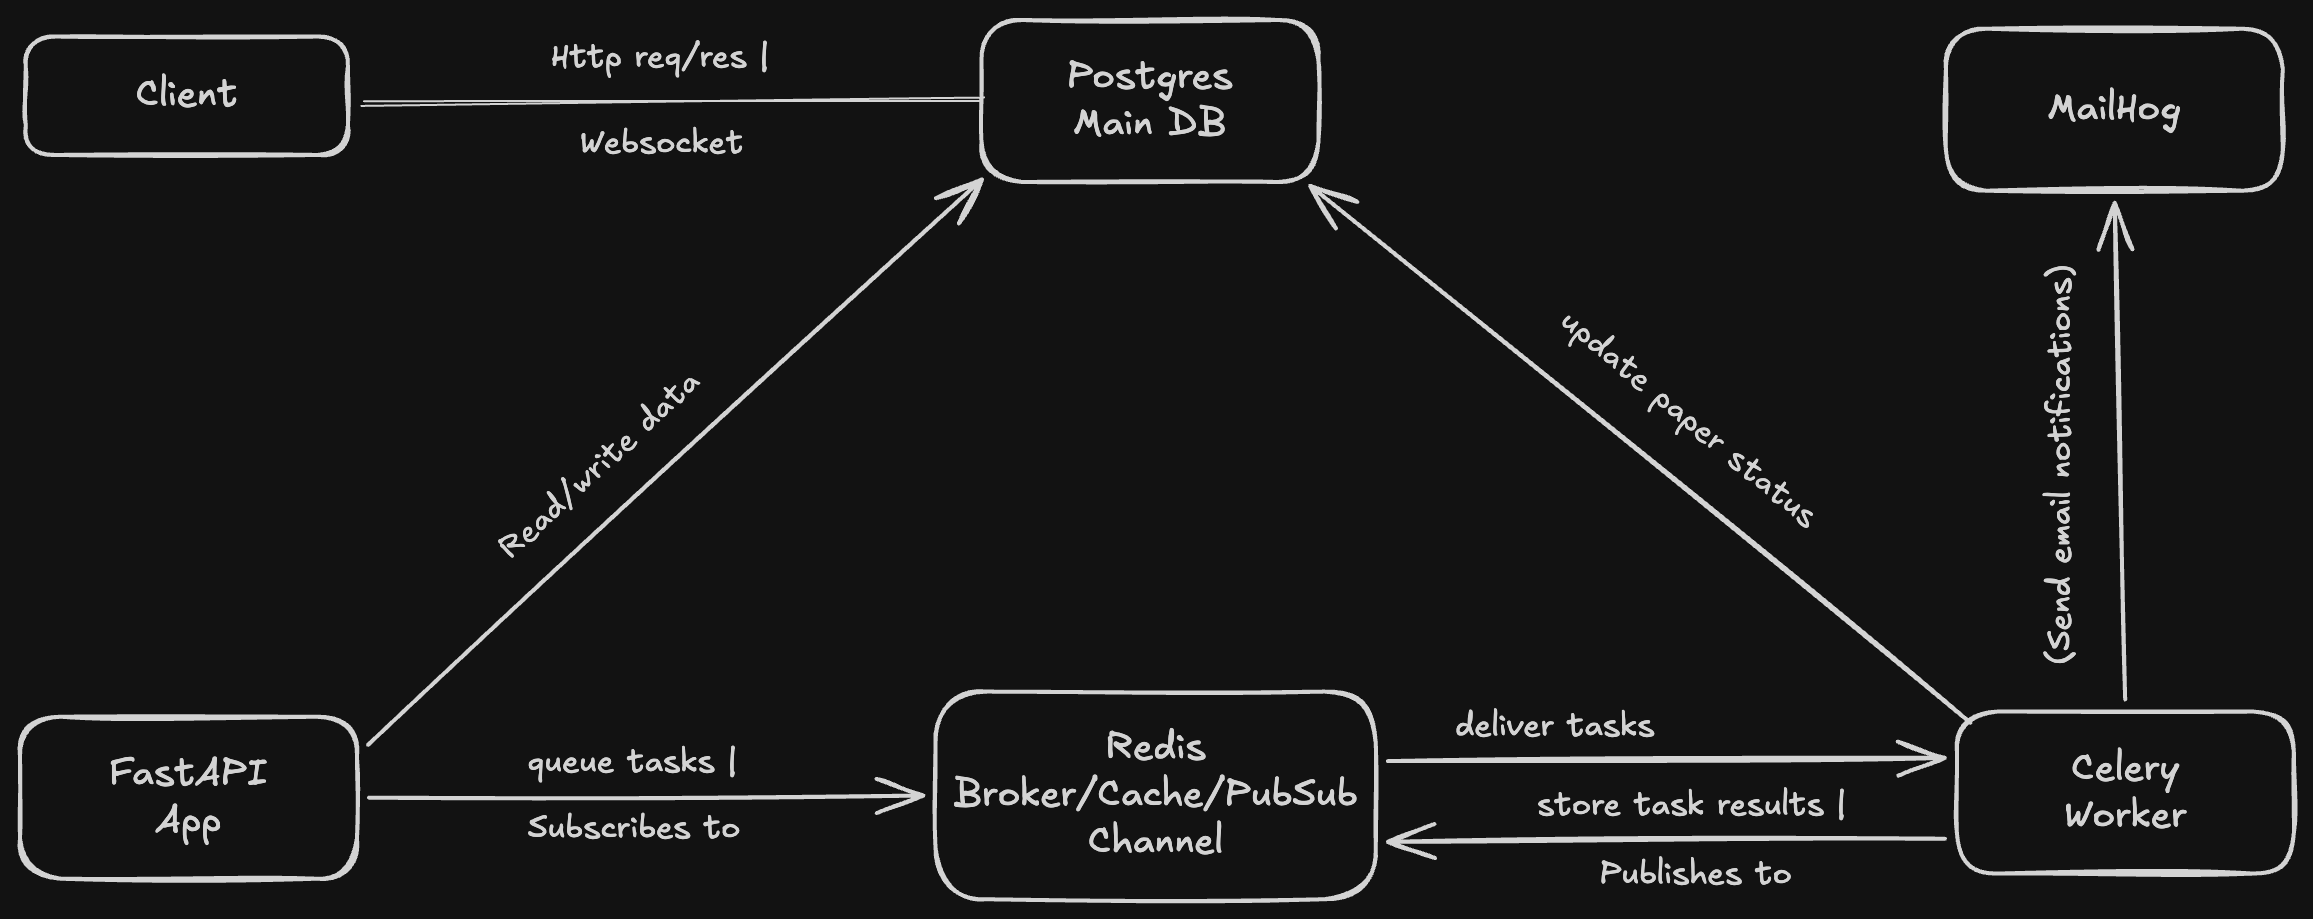
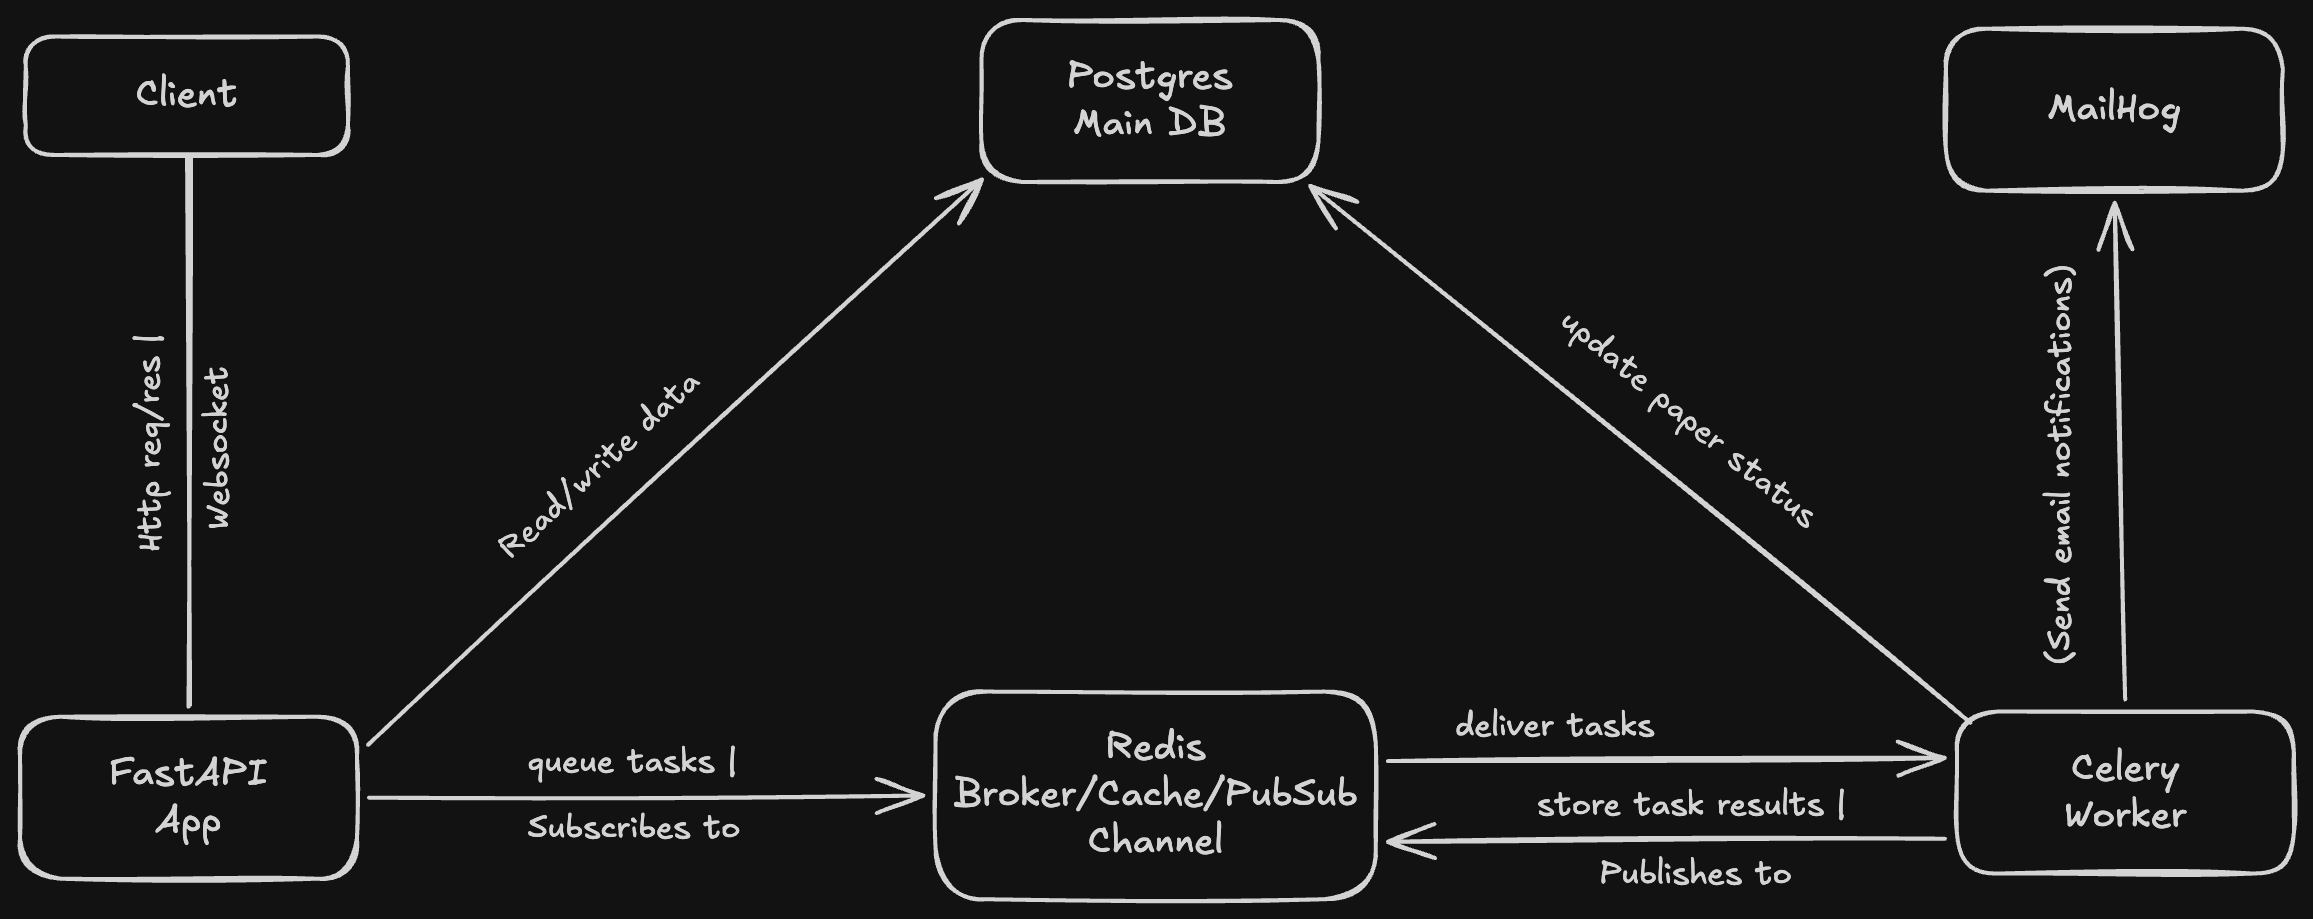
add architecture diagram for v4

diff --git a/README.md b/README.md
@@ -102,6 +102,30 @@ notifications within milliseconds of task completion.
 
 ---
 
+### Phase 4 — Gateway & Observability (v4-gateway)
+
+**The problem:** No visibility into system behavior. FastAPI
+exposed directly — no centralized traffic control.
+
+**What was added:**
+
+- Nginx reverse proxy as single entry point
+- Gateway-level rate limiting per IP
+- WebSocket proxying with upgrade headers
+- Correlation IDs injected by Nginx, traced through all logs
+- Prometheus scraping /metrics every 15 seconds
+- Grafana dashboards — request rate, P95 latency, error rate
+- Structured JSON logging with real IP resolution
+
+**Result:** Complete visibility into system behavior.
+Single entry point for all traffic.
+
+## Current Architecture
+
+<img src="./assets/v4-arch.png" width="880" />
+
+---
+
 ## Running the System
 
 ### Prerequisites